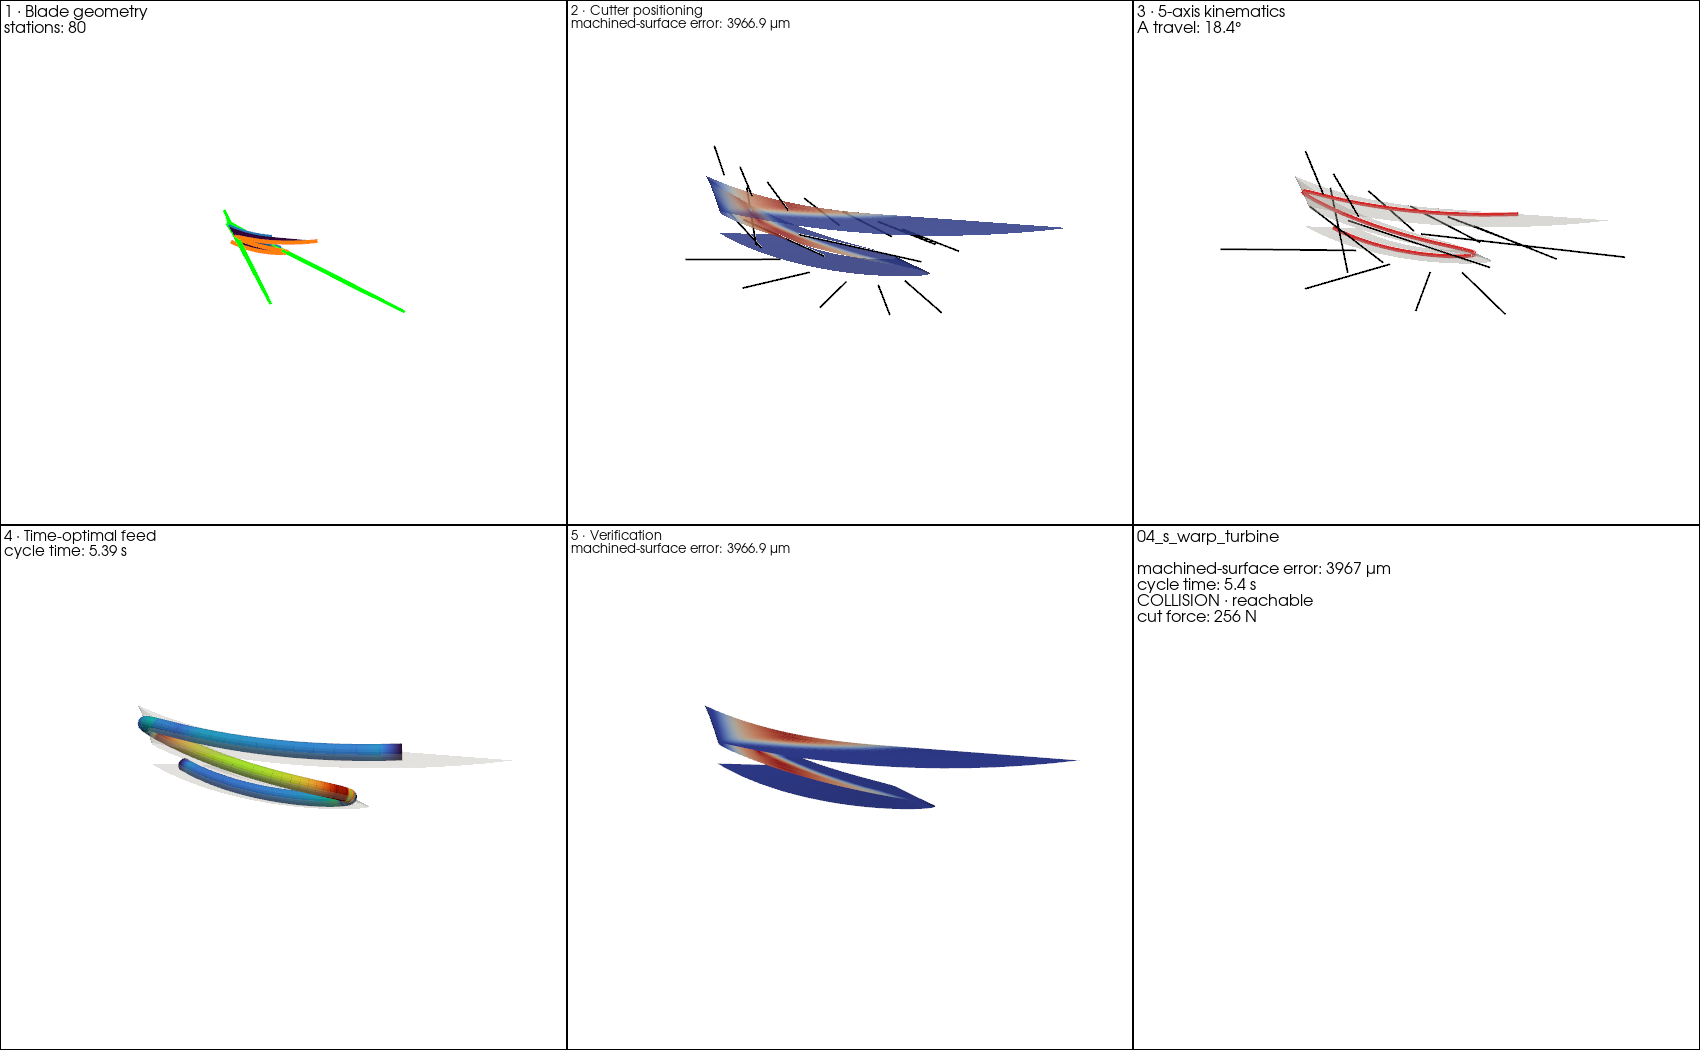
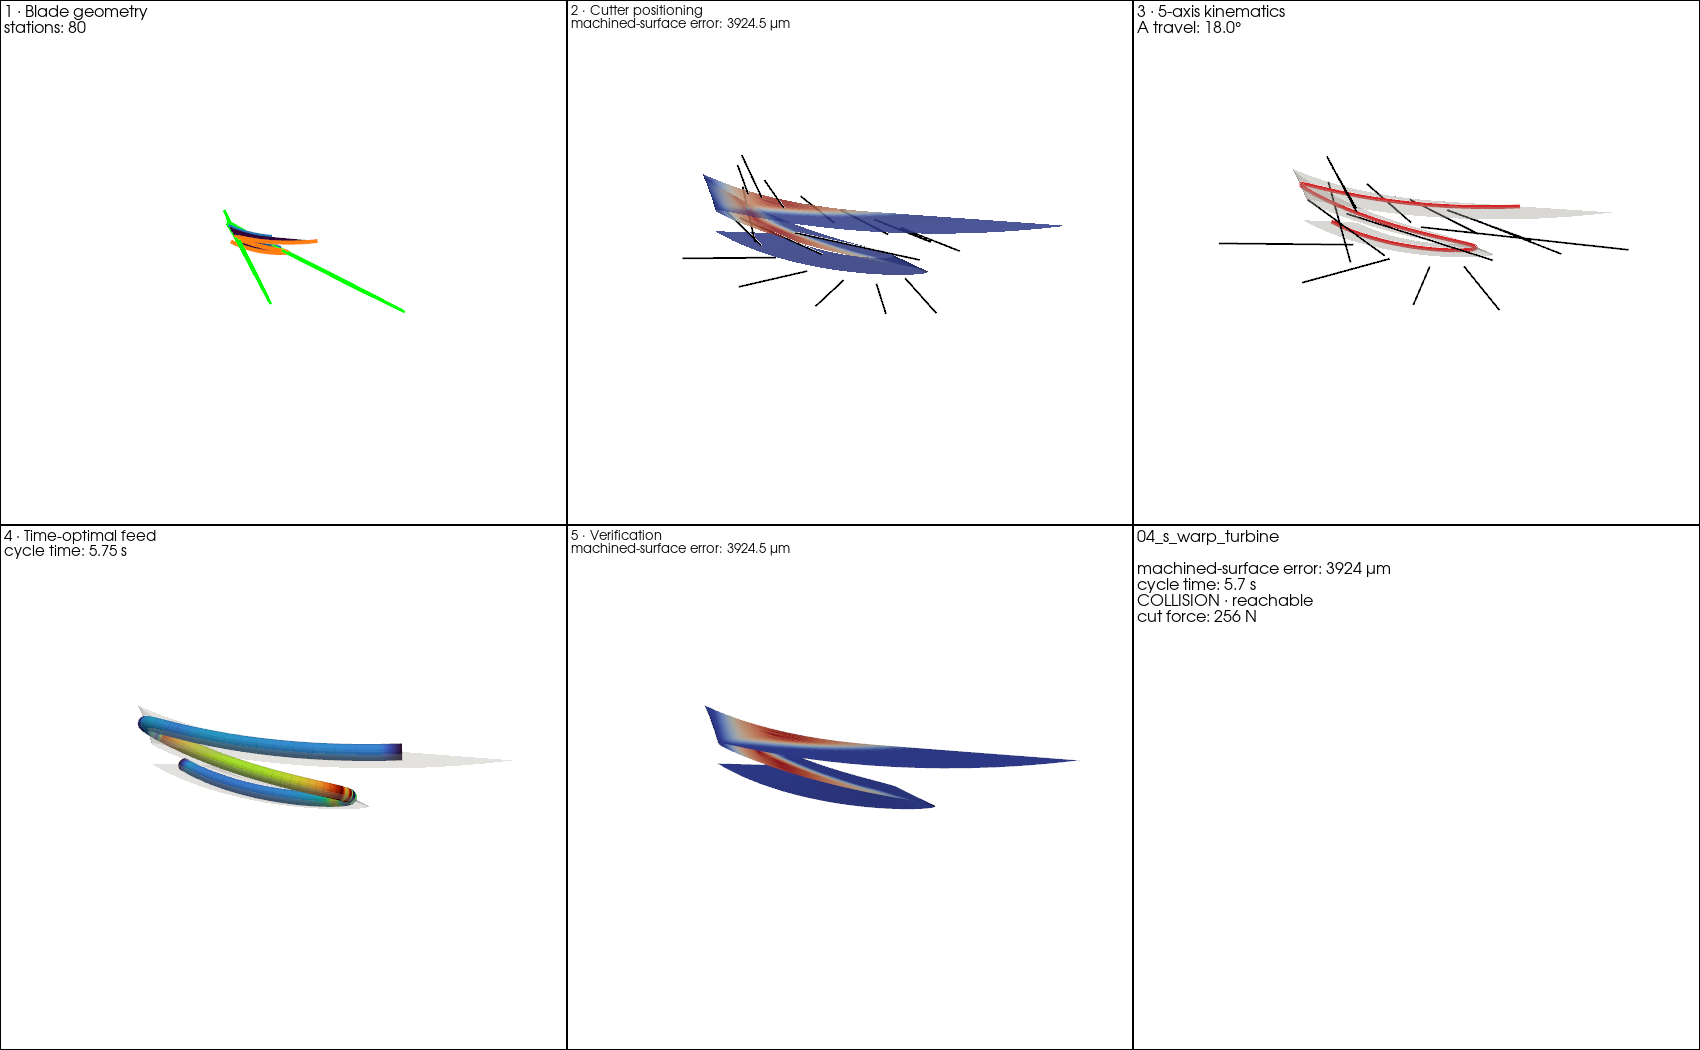
Render & commit the 06_clean_showcase demo part + refresh the complex gallery
The 06_clean_showcase generator entry was committed but its rendered artifacts
were not. Generate them (STEP + rails CSV + 5-stage workflow montage) and refresh
the 01-05 complex gallery so every part's render reflects the current pipeline
(balanced default, opt-in avoidance, AABB-culled collision). 06 confirms
collision-free end to end (cf=True, reachable, sub-0.5 mm swept). Fixed the 06
blurb's swept figure to match the committed render.

Claude-Session: https://claude.ai/code/session_0165tvnZXUKGnuh43UKE6GWR

diff --git a/demos/make_complex_demos.py b/demos/make_complex_demos.py
@@ -75,7 +75,7 @@ DEMOS = [
      "tuned with a right-sized tool and channel so the whole job processes "
      "COLLISION-FREE out of the box (swept-optimal axes already clear, no "
      "avoidance needed), feed-feasible, and the post certifies. The end-to-end "
-     "'it just works' exemplar (swept ~120 um). Turn ON 'Avoid collisions' to "
+     "'it just works' exemplar (sub-0.5 mm swept). Turn ON 'Avoid collisions' to "
      "tighten the one closest ruling further.",
      dict(rh0=32, rh1=48, rs0=46, rs1=60, z_span=26, z_offset=7, wrap=0.42,
           twist=0.6, lean=0.2),

diff --git a/demos/cout/SUMMARY.md b/demos/cout/SUMMARY.md
@@ -7,7 +7,7 @@ Realistic centrifugal / mixed-flow / blisk blades, each shown as a 5-stage **wor
 Mixed-flow impeller: the flank sweeps from axial to radial (the radius bulges mid-span) with real twist — and a cylinder still machines it well.
 
 - machined-surface error **76 µm** · cycle 3.3 s · ✅ · reachable · finite=True
-- operations: {'rough_len_mm': 5592.539658222864, 'fillet_gouge_free': True, 'rest_fraction': 0.40416086358962944, 'n_stacked': 1}
+- operations: {'rough_len_mm': 5592.539658222864, 'fillet_gouge_free': True, 'rest_fraction': 0.40994572623163145, 'n_stacked': 1}
 
 ![01_mixed_flow](01_mixed_flow_workflow.png)
 
@@ -15,8 +15,8 @@ Mixed-flow impeller: the flank sweeps from axial to radial (the radius bulges mi
 
 Backswept centrifugal blade: the trailing edge leans back (advance ∝ u²) with an S-warp — a strongly 3-D flank.
 
-- machined-surface error **296 µm** · cycle 3.9 s · ✅ · reachable · finite=True
-- operations: {'rough_len_mm': 4880.480865765845, 'fillet_gouge_free': True, 'rest_fraction': 0.2931712225625443, 'n_stacked': 1}
+- machined-surface error **292 µm** · cycle 4.0 s · ⚠ collision · reachable · finite=True
+- operations: {'rough_len_mm': 4880.480865765845, 'fillet_gouge_free': True, 'rest_fraction': 0.29896998434931193, 'n_stacked': 1}
 
 ![02_backswept](02_backswept_workflow.png)
 
@@ -24,8 +24,8 @@ Backswept centrifugal blade: the trailing edge leans back (advance ∝ u²) with
 
 A strongly twisted blisk blade — high non-developability; the swept penalty tilts the axes to keep the envelope error in check.
 
-- machined-surface error **133 µm** · cycle 5.9 s · ✅ · reachable · finite=True
-- operations: {'rough_len_mm': 4884.1052979657, 'fillet_gouge_free': True, 'rest_fraction': 0.24491512541333768, 'n_stacked': 1}
+- machined-surface error **112 µm** · cycle 5.9 s · ⚠ collision · reachable · finite=True
+- operations: {'rough_len_mm': 4884.1052979657, 'fillet_gouge_free': True, 'rest_fraction': 0.24631564843688558, 'n_stacked': 1}
 
 ![03_high_twist](03_high_twist_workflow.png)
 
@@ -33,8 +33,8 @@ A strongly twisted blisk blade — high non-developability; the swept penalty ti
 
 An S-warped turbine flank (inflected camber): a cylinder fundamentally cannot fit it — the render shows WHERE the envelope overcuts (the honest flank-milling limit; use a barrel/point-mill here).
 
-- machined-surface error **3967 µm** · cycle 5.4 s · ⚠ collision · reachable · finite=True
-- operations: {'rough_len_mm': 7962.402781946339, 'fillet_gouge_free': True, 'rest_fraction': 0.35771913316487536, 'n_stacked': 1}
+- machined-surface error **3924 µm** · cycle 5.7 s · ⚠ collision · reachable · finite=True
+- operations: {'rough_len_mm': 7962.402781946339, 'fillet_gouge_free': True, 'rest_fraction': 0.34192939390959887, 'n_stacked': 1}
 
 ![04_s_warp_turbine](04_s_warp_turbine_workflow.png)
 
@@ -42,8 +42,17 @@ An S-warped turbine flank (inflected camber): a cylinder fundamentally cannot fi
 
 A tall, leaned blade (z-bowed shroud) — machined as stacked flank passes (each pass a thinner sub-band of the ruling).
 
-- machined-surface error **363 µm** · cycle 4.0 s · ✅ · reachable · finite=True
-- operations: {'rough_len_mm': 5976.25933386986, 'fillet_gouge_free': True, 'rest_fraction': 0.30725287749704105, 'n_stacked': 1}
+- machined-surface error **335 µm** · cycle 3.8 s · ⚠ collision · reachable · finite=True
+- operations: {'rough_len_mm': 5976.25933386986, 'fillet_gouge_free': True, 'rest_fraction': 0.2983561882167433, 'n_stacked': 1}
 
 ![05_tall_leaned](05_tall_leaned_workflow.png)
+
+## 06_clean_showcase
+
+A complex centrifugal blisk blade — strongly twisted, tall, and leaned — tuned with a right-sized tool and channel so the whole job processes COLLISION-FREE out of the box (swept-optimal axes already clear, no avoidance needed), feed-feasible, and the post certifies. The end-to-end 'it just works' exemplar (swept ~120 um). Turn ON 'Avoid collisions' to tighten the one closest ruling further.
+
+- machined-surface error **469 µm** · cycle 6.6 s · ✅ · reachable · finite=True
+- operations: {'rough_len_mm': 5770.0347649958485, 'fillet_gouge_free': True, 'rest_fraction': 0.27700045204334683, 'n_stacked': 1}
+
+![06_clean_showcase](06_clean_showcase_workflow.png)
 
